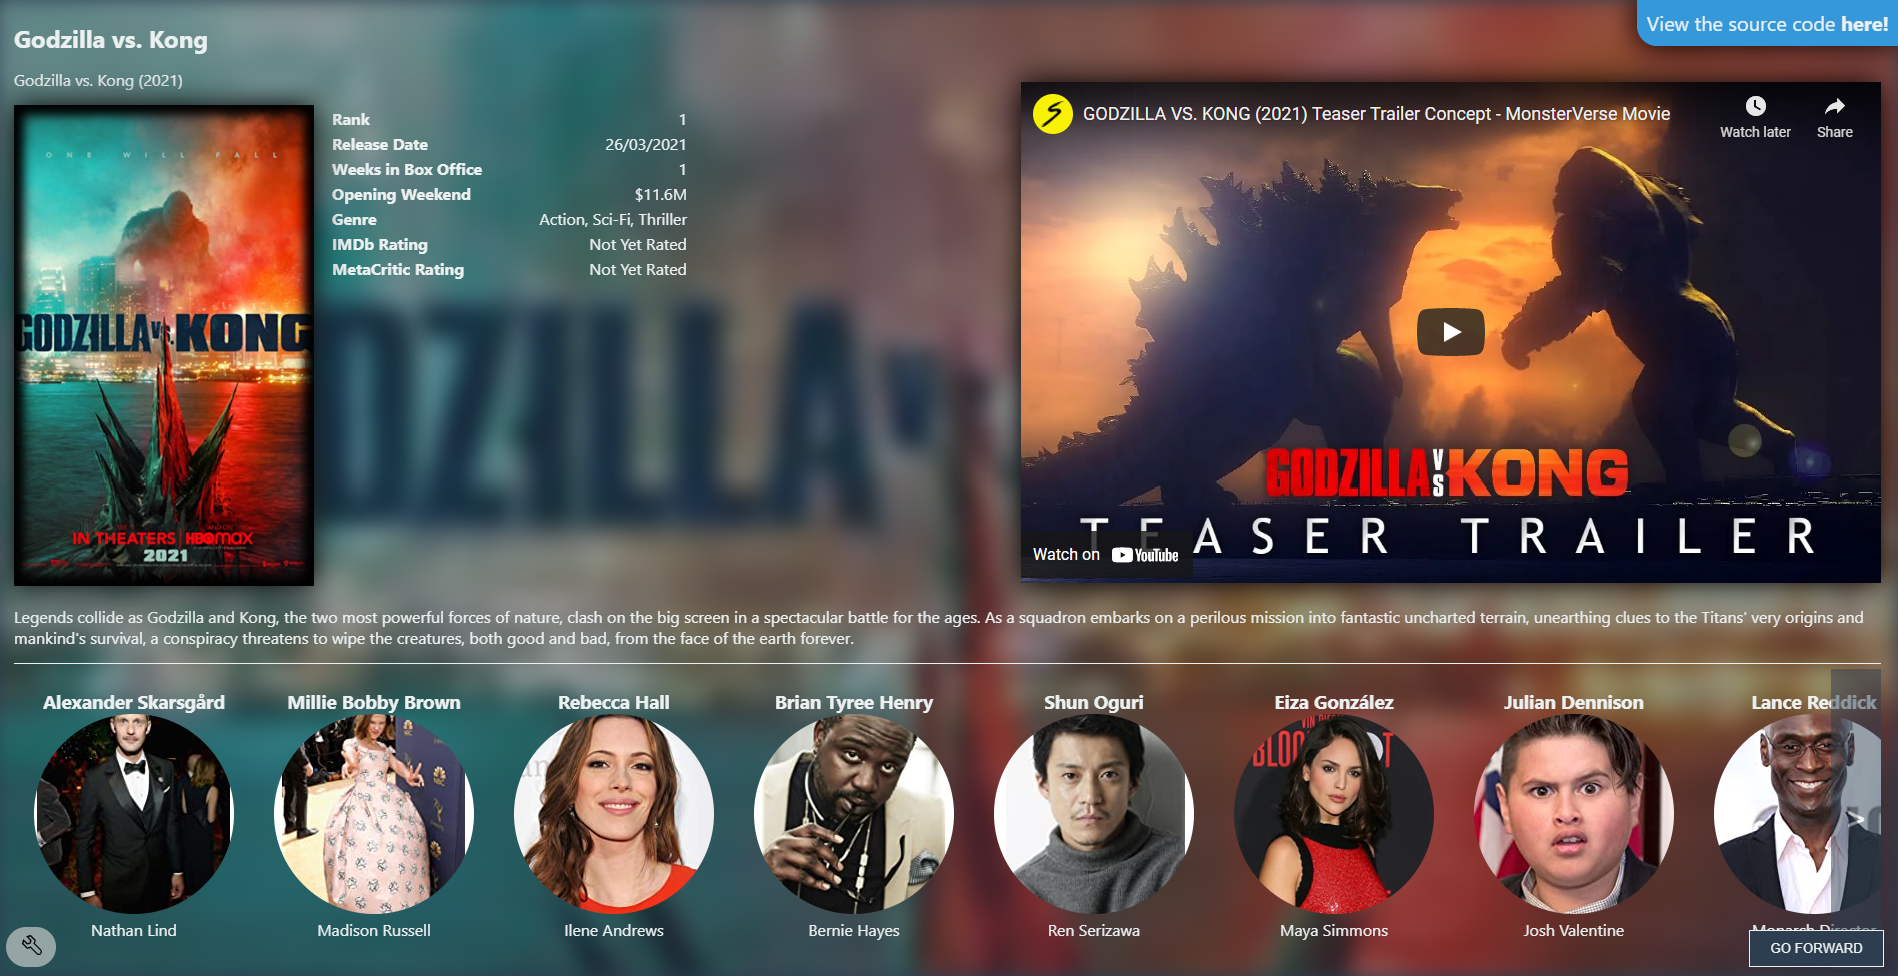
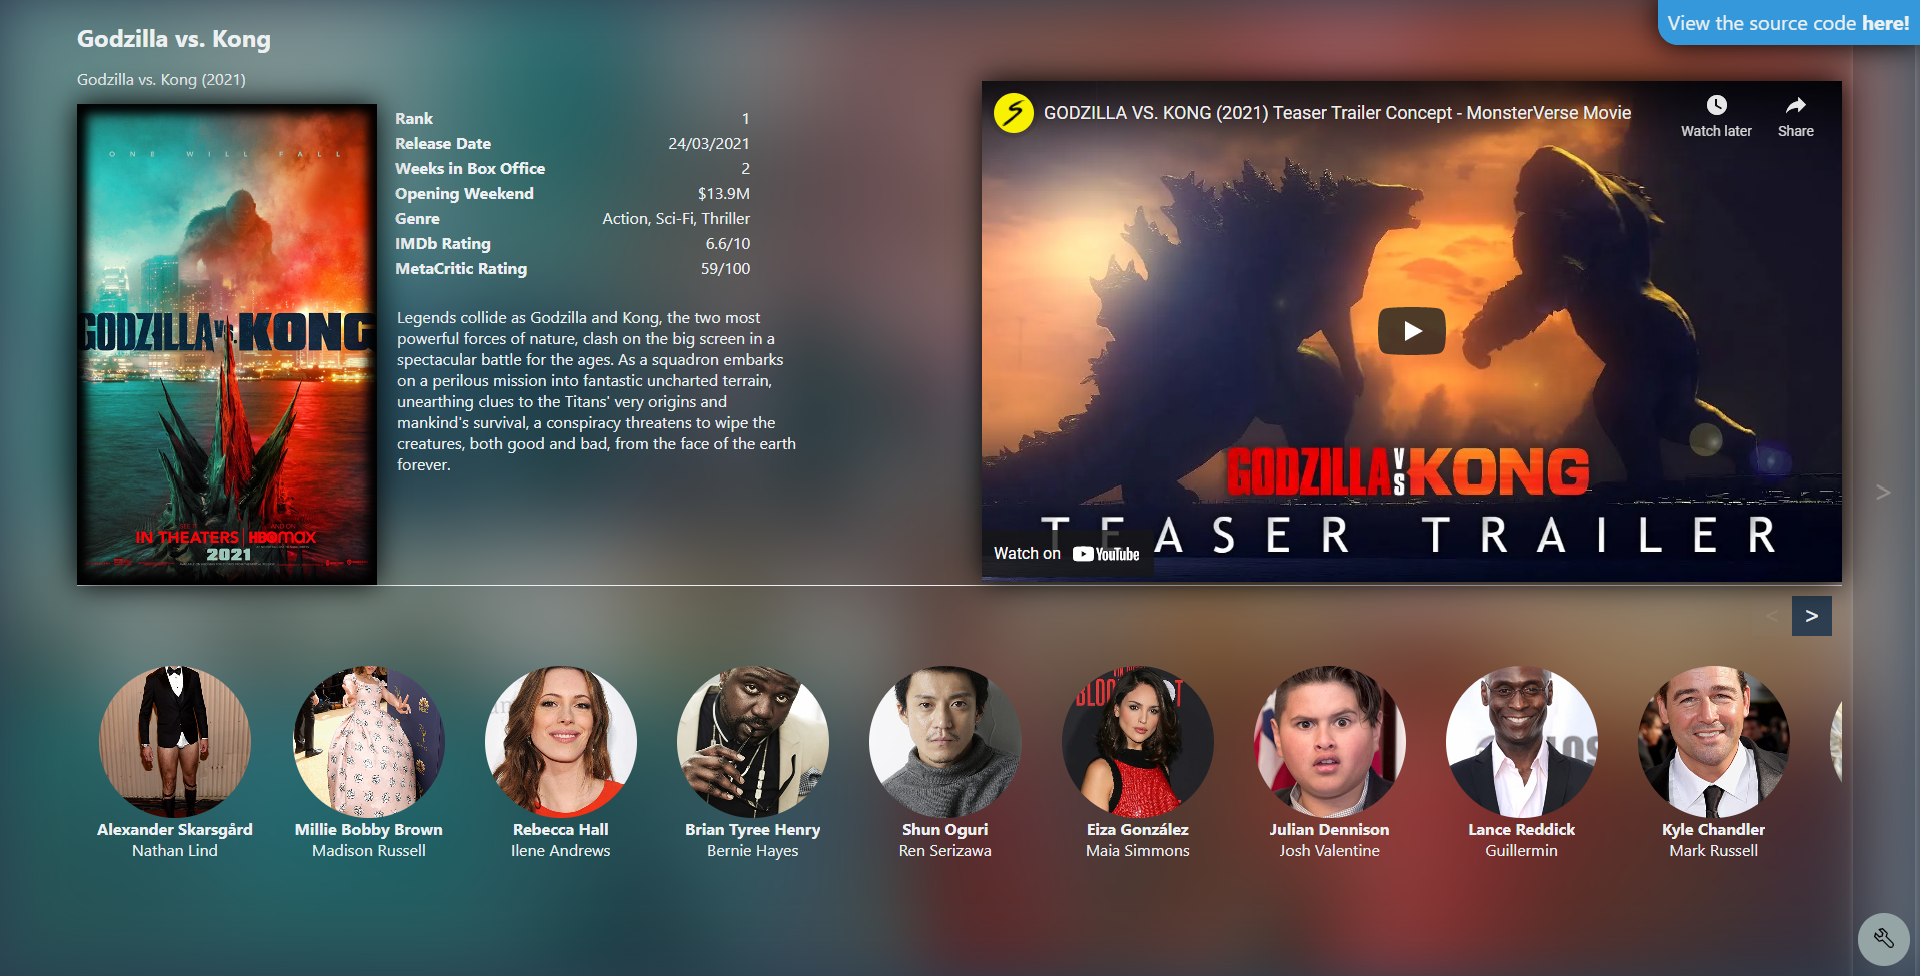
Added apache cors info and updated images

diff --git a/readme.md b/readme.md
@@ -54,3 +54,13 @@ The following URLs helped to solve this issue:
 [Knowing which .conf file to edit](http://smartwebdeveloper.com/ubuntu/httpd-conf-location-on-ubuntu)
 
 Thanks to this the following link should take you to the film ["nobody"](https://www.uploadr.co.uk/imdbfetch/tt7888964)
+
+# Apache CORS Settings
+
+Solved by following: [this guide](https://blog.magepsycho.com/invalid-command-header-perhaps-misspelled-or-defined-by-a-module-not-included-in-the-server-configuration/)
+
+And adding 
+```
+Header set Access-Control-Allow-Origin "*"
+``` 
+to the `.conf` and restarting
